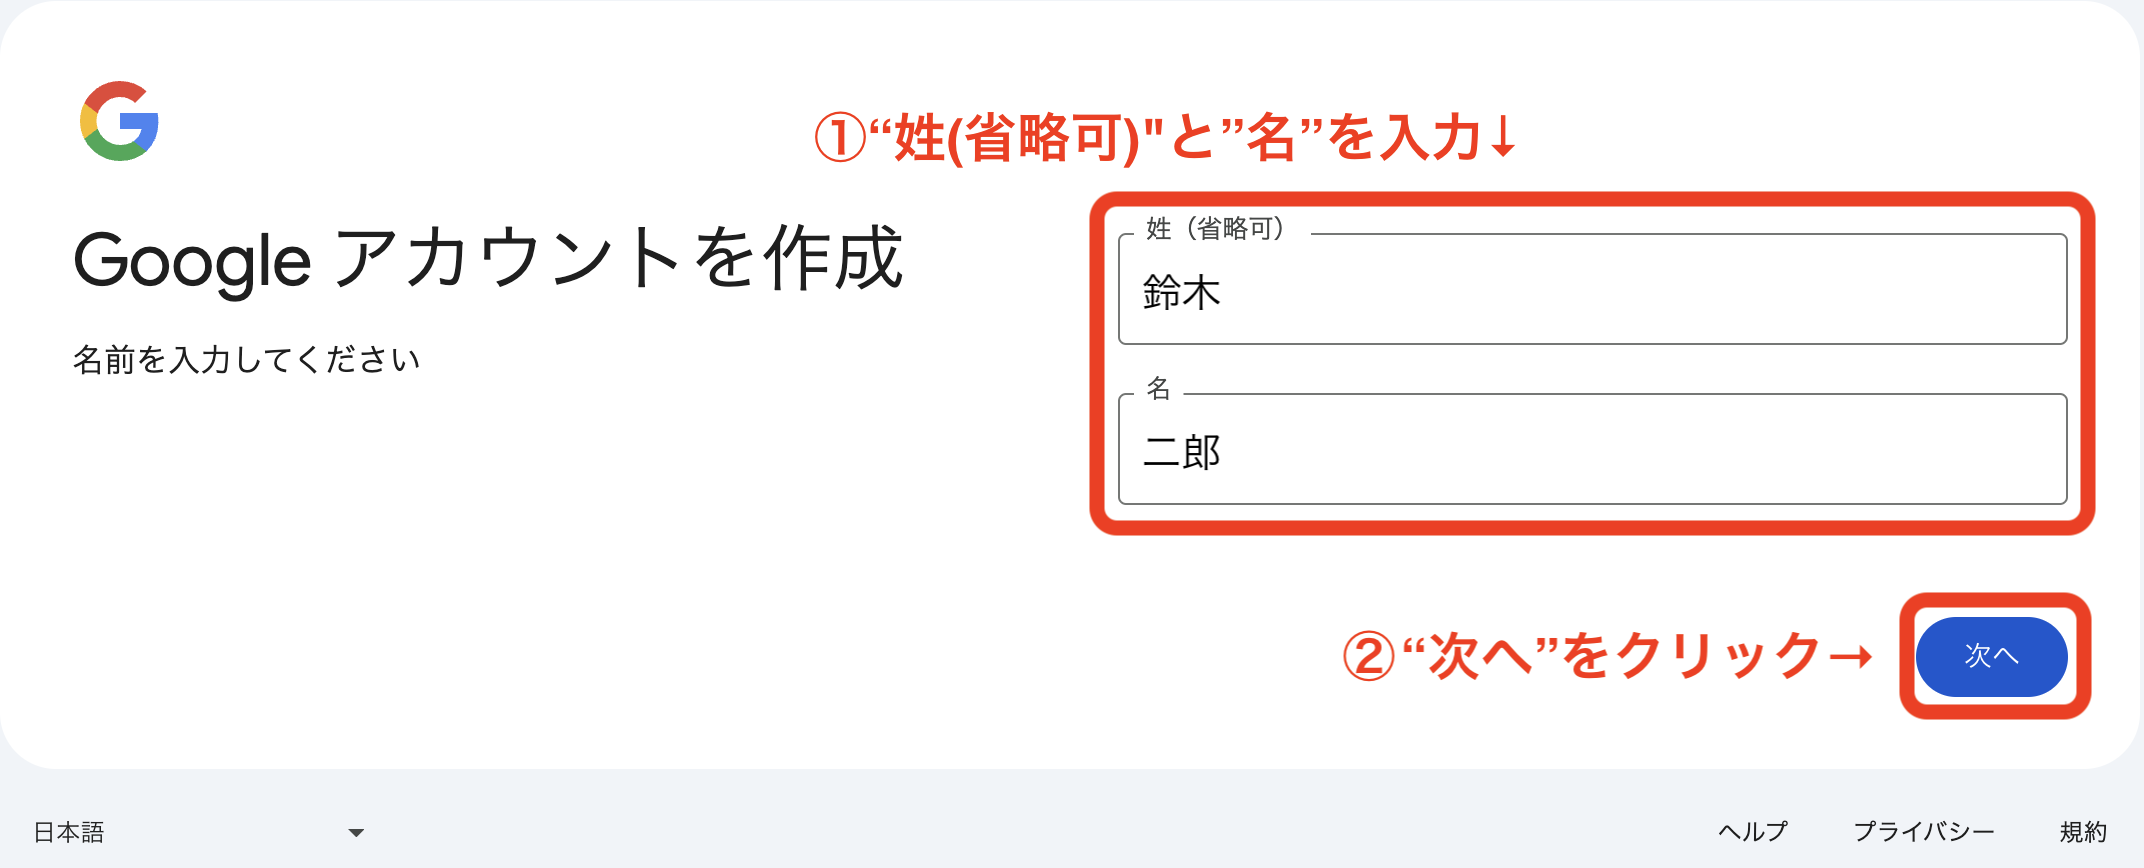
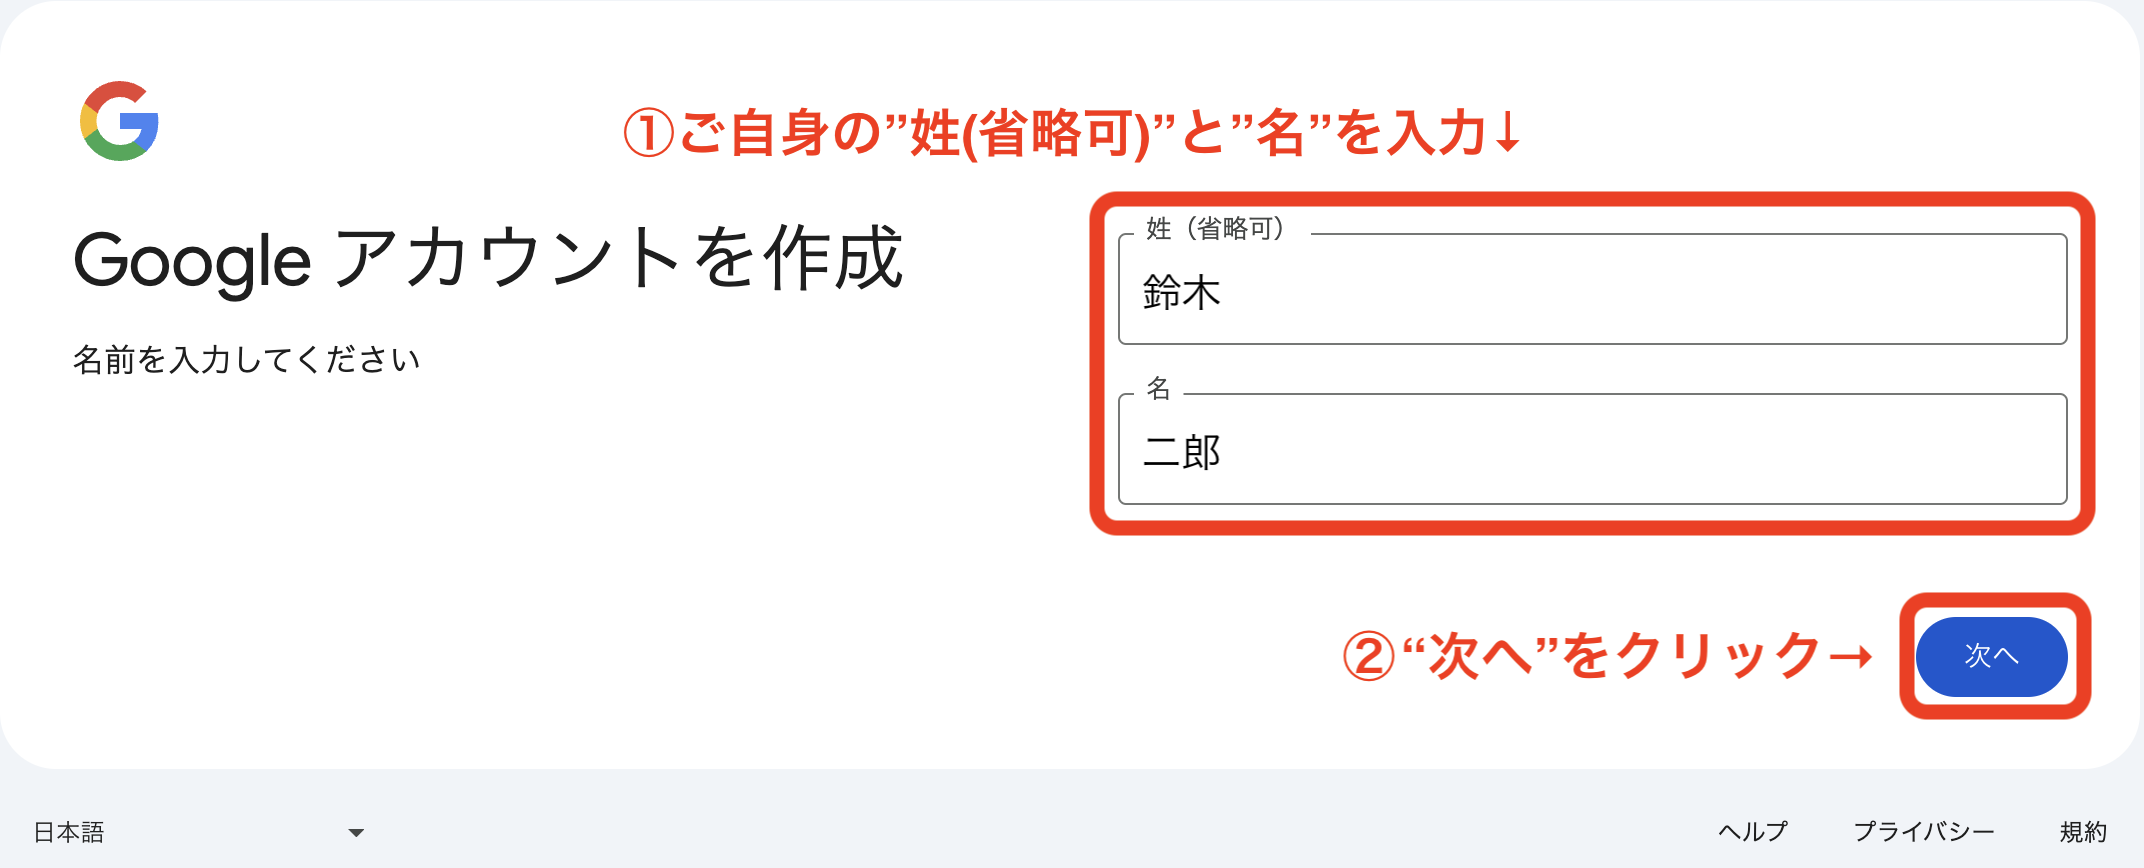
fix: fix the expression which mentions user name

Changed region(s): [[0.2812, 0.1244, 0.7188, 0.1866]]

diff --git a/preparation/GoogleAccount.md b/preparation/GoogleAccount.md
@@ -16,11 +16,11 @@
 <img src="../images/NewAccount_2.png" width="1000">
 * "個人で使用"をクリック
 <img src="../images/NewAccount_3.png" width="1000">
-* "姓(省略可)"と"名"を入力し、"次へ"をクリック
+* ご自身の"姓(省略可)"と"名"を入力し、"次へ"をクリック
 <img src="../images/NewAccount_4.png" width="1000">
 * "生年月日"と"性別"を入力し、"次へ"をクリック
 <img src="../images/NewAccount_5.png" width="1000">
-* "ユーザー名"を入力し、"次へ"をクリック
+* 任意の"ユーザー名"を入力し、"次へ"をクリック
 <img src="../images/NewAccount_6.png" width="1000">
   * 他と重複している場合は別のものにする必要があり
   * 後で変更できないため注意
@@ -59,13 +59,13 @@
 <img src="../images/NewAccount_2.png" width="1000">
 * "個人で使用"をクリック
 <img src="../images/NewAccount_3.png" width="1000">
-* "姓(省略可)"と"名"を入力し、"次へ"をクリック
+* ご自身の"姓(省略可)"と"名"を入力し、"次へ"をクリック
 <img src="../images/AddAccount_10.png" width="1000">
 * "生年月日"と"性別"を入力し、"次へ"をクリック
 <img src="../images/NewAccount_5.png" width="1000">
-* "自分でGmailアドレスを作成"をクリック
+* 自分でGmailアドレスを作成"をクリック
 <img src="../images/AddAccount_7.png" width="1000">
-* "ユーザー名(Gmailアドレス)"を入力し、"次へ"をクリック
+* 任意の"ユーザー名(Gmailアドレス)"を入力し、"次へ"をクリック
 <img src="../images/AddAccount_8.png" width="1000">
 * "パスワード"を入力し、"次へ"をクリック
 <img src="../images/NewAccount_7.png" width="1000">
